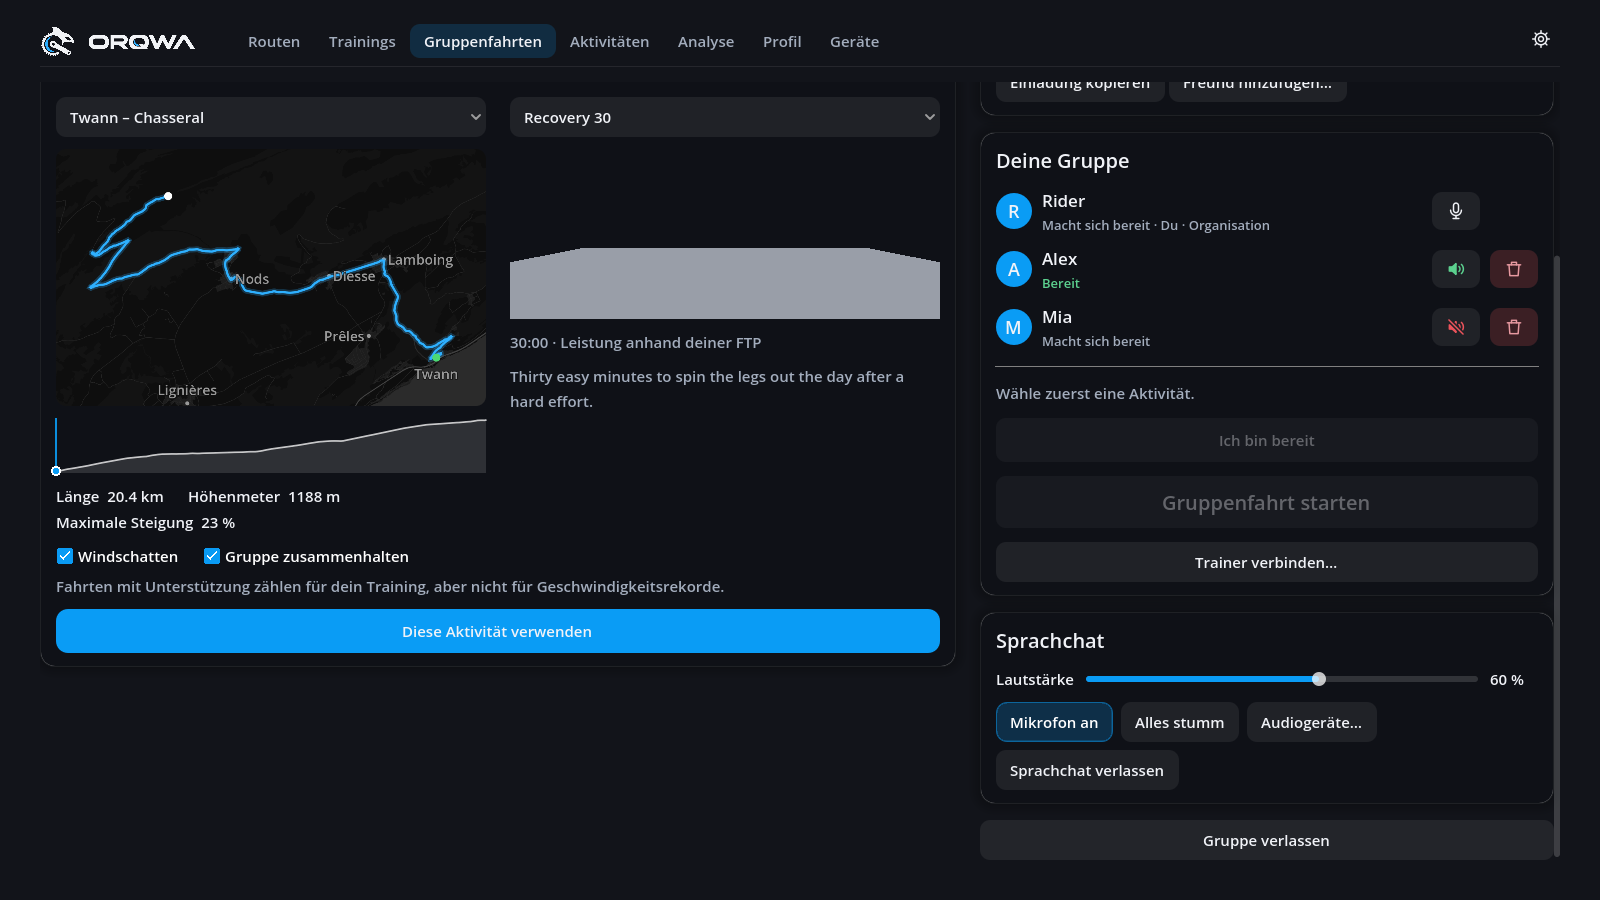
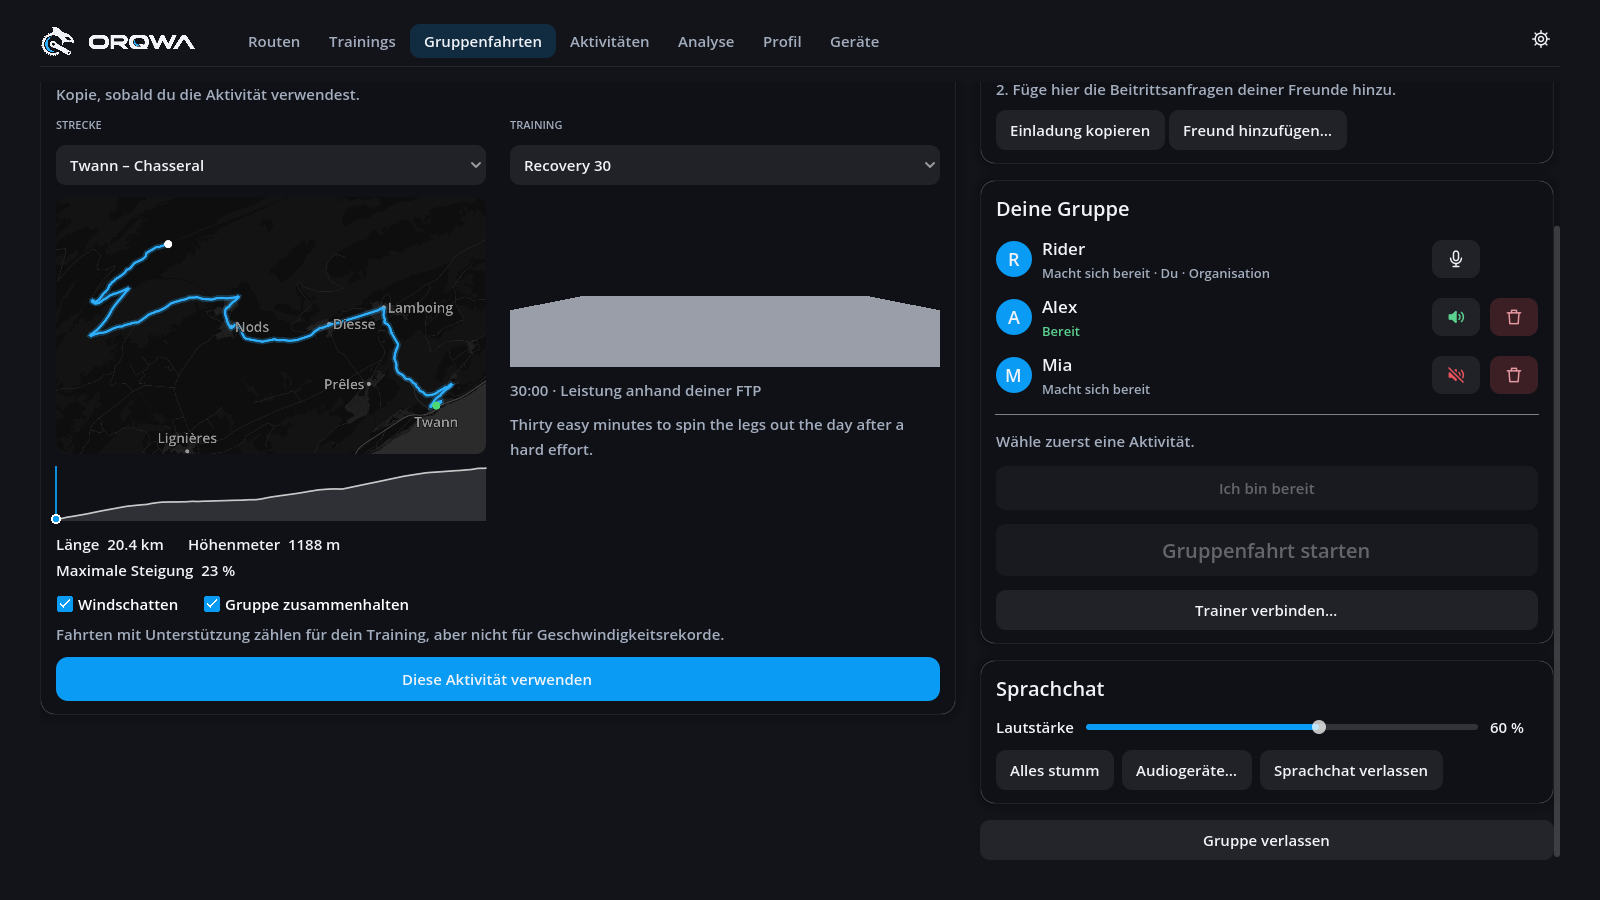
feat(group): switch the microphone beside the name, not in the voice card
The voice card's Microphone on/off repeated the microphone beside the
rider's own name and in the ride's bar; it goes (R194).

diff --git a/docs/REQUIREMENTS.md b/docs/REQUIREMENTS.md
@@ -432,7 +432,7 @@ Import a GPX → generate the 3D world → ride it on the KICKR Core 2 in SIM mo
 
 | ID | Requirement |
 |---|---|
-| R194 | Refines R162, R177, R178, R180 and R190 (2026-11-02): group voice is joined through a **guided window** that asks anew every time and remembers nothing. First **how the rider listens**: **Headphones** (*Everyone talks freely*, recommended) turns **Prevent speaker echo** (R177) off, **Speakers** (*One at a time*) turns it on. Then their sound: the speakers or headphones with **Play test sound** (R178), the voice volume, and the **Microphone**, **Off** or **On**. **On** shows the microphone's choice and a live level with **Voice detected** while it checks the microphone on this computer only, for at most two minutes, ended by Off, closing the window or joining; **Join voice** then joins with the microphone sending, the rider's explicit consent in place of R162's microphone-off start. With **Off**, ORQWA joins listening only and asks for no microphone permission. In voice, the voice panel shows, without explanations, **Volume**, **Microphone on/off**, **Mute all**, **Audio devices…** (asking first how the rider listens, then the same check, its meter following the open microphone without pausing voice) and **Leave voice**; there is no separate switch for how the rider listens, which would be forgotten when changing headphones. Voice follows the system's default output when it moves to another device, e.g. headphones plugged in or earbuds connected, and whenever voice plays on another output than the one the rider last answered for, ORQWA asks again **How are you listening?**, naming the device: in the voice panel, and over the ride while the group's panel is closed. Devices chosen right after the question need no second one. In the participant list each rider has one voice button on the right instead of the speaker beside their name and the **Mute** button: a friend's speaker, green while heard speaking and struck through in red when muted here; the rider's own microphone, green while it sends speech and struck through in red while off. A click switches it, and its tooltip says what the click does. Before the start, the organizer removes a friend with a red bin after it, with a tooltip. During a group ride the control bar has a **microphone button** beside **Group Rides** while in voice, struck through while off, and the ride's settings set the **Voice chat** volume beside the wind and bicycle sounds. A sound check that pauses voice brings it back with the microphone as it was (R188), no longer always off. |
+| R194 | Refines R162, R177, R178, R180 and R190 (2026-11-02): group voice is joined through a **guided window** that asks anew every time and remembers nothing. First **how the rider listens**: **Headphones** (*Everyone talks freely*, recommended) turns **Prevent speaker echo** (R177) off, **Speakers** (*One at a time*) turns it on. Then their sound: the speakers or headphones with **Play test sound** (R178), the voice volume, and the **Microphone**, **Off** or **On**. **On** shows the microphone's choice and a live level with **Voice detected** while it checks the microphone on this computer only, for at most two minutes, ended by Off, closing the window or joining; **Join voice** then joins with the microphone sending, the rider's explicit consent in place of R162's microphone-off start. With **Off**, ORQWA joins listening only and asks for no microphone permission. In voice, the voice panel shows, without explanations, **Volume**, **Mute all**, **Audio devices…** (asking first how the rider listens, then the same check, its meter following the open microphone without pausing voice) and **Leave voice**; there is no separate switch for how the rider listens, which would be forgotten when changing headphones. Voice follows the system's default output when it moves to another device, e.g. headphones plugged in or earbuds connected, and whenever voice plays on another output than the one the rider last answered for, ORQWA asks again **How are you listening?**, naming the device: in the voice panel, and over the ride while the group's panel is closed. Devices chosen right after the question need no second one. In the participant list each rider has one voice button on the right instead of the speaker beside their name and the **Mute** button: a friend's speaker, green while heard speaking and struck through in red when muted here; the rider's own microphone, green while it sends speech and struck through in red while off. A click switches it, and its tooltip says what the click does; the rider's own is where they switch their microphone, as the voice panel has no switch of its own. Before the start, the organizer removes a friend with a red bin after it, with a tooltip. During a group ride the control bar has a **microphone button** beside **Group Rides** while in voice, struck through while off, and the ride's settings set the **Voice chat** volume beside the wind and bicycle sounds. A sound check that pauses voice brings it back with the microphone as it was (R188), no longer always off. |
 
 ## Test hardware available
 
